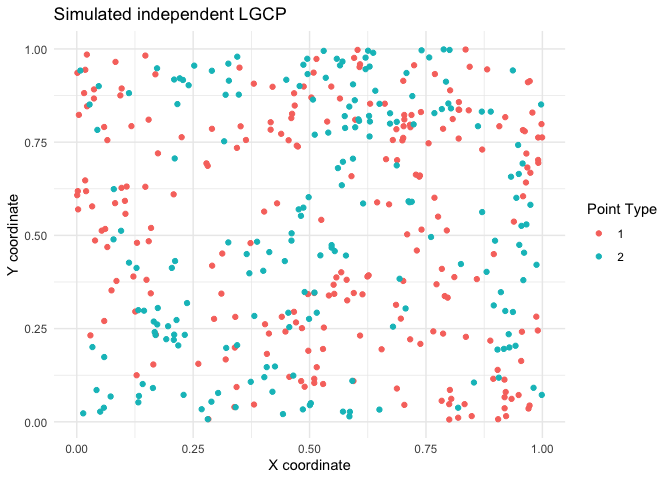
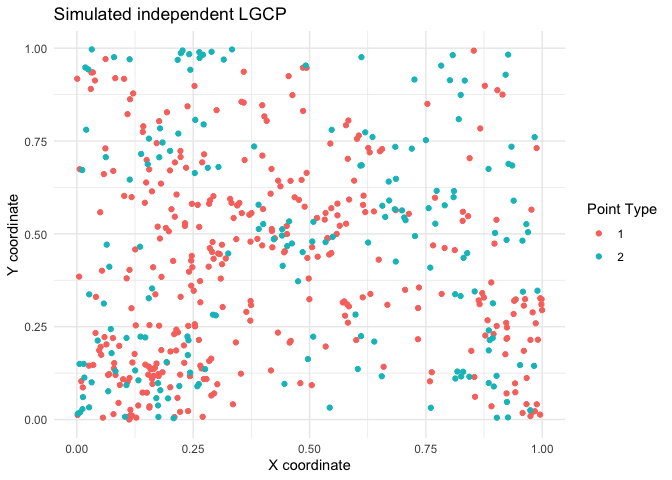
more readme edits

diff --git a/README.md b/README.md
@@ -13,17 +13,12 @@ You can install the development version of spatbiome from
 [GitHub](https://github.com/) with:
 
 ``` r
-pak::pak("asmita112358/spatbiome")
+pak::pak("asmita112358/spatbiome", dependencies = TRUE)
 #> ℹ Loading metadata database✔ Loading metadata database ... done
 #>  
 #> → Package library at '/Library/Frameworks/R.framework/Versions/4.6/Resources/library'.
-#> → Will update 1 package.
-#> → Will download 1 package with unknown size.
-#> + spatbiome 0.1.0 → 0.1.0 👷🏽♂🔧 ⬇ (GitHub: aefd986)
-#> ℹ Getting 1 pkg with unknown size
-#> ✔ Cached copy of spatbiome 0.1.0 (source) is the latest build
-#> ✔ Installed spatbiome 0.1.0 (github::asmita112358/spatbiome@aefd986) (19ms)
-#> ✔ 1 pkg + 40 deps: kept 39, upd 1 [4.2s]
+#> ℹ No downloads are needed
+#> ✔ 1 pkg + 40 deps: kept 40 [4.4s]
 library(spatbiome)
 ```
 
@@ -102,19 +97,19 @@ ggplot(plot_X, aes(x = x, y = y, color = marks)) +
 res <- ARShift(data = X, i = "1", j = "2", n_perm = 499, workers = 5, type = "hom")
 res
 #> $p
-#> [1] 0.086
+#> [1] 0.064
 #> 
 #> $K
-#>  [1] 0.0000000000 0.0001095770 0.0001095770 0.0003686007 0.0005000932
-#>  [6] 0.0007411626 0.0009384013 0.0012890478 0.0016148341 0.0020905580
-#> [11] 0.0028408995 0.0033643323 0.0041413840 0.0048351346 0.0057168404
-#> [16] 0.0065494905 0.0075813417 0.0085437241 0.0096419515 0.0107469930
-#> [21] 0.0118015558 0.0128513016 0.0140879084 0.0152223303 0.0166095903
-#> [26] 0.0182126128 0.0195767597 0.0209743239 0.0225258143 0.0243431732
-#> [31] 0.0261985763 0.0276961127 0.0297173322 0.0314113176 0.0332157374
-#> [36] 0.0354443485 0.0375964775 0.0396608913 0.0424924407 0.0445122195
-#> [41] 0.0465131321 0.0487287100 0.0510605550 0.0533563527 0.0557592833
-#> [46] 0.0582804378 0.0612650564 0.0639103498 0.0663434553 0.0689686948
+#>  [1] 0.0000000000 0.0000159261 0.0001044503 0.0002126663 0.0005474595
+#>  [6] 0.0008392205 0.0012455341 0.0017376568 0.0024152214 0.0031076744
+#> [11] 0.0039132040 0.0047076918 0.0055401279 0.0064732268 0.0076039768
+#> [16] 0.0088232471 0.0101573527 0.0114017645 0.0127600617 0.0139524128
+#> [21] 0.0155913216 0.0170355028 0.0184654593 0.0200385732 0.0218801525
+#> [26] 0.0236577130 0.0255479671 0.0272986315 0.0295592813 0.0312295560
+#> [31] 0.0336279516 0.0359726699 0.0380846839 0.0407941511 0.0431222606
+#> [36] 0.0456315162 0.0482654838 0.0510284124 0.0538327329 0.0566786660
+#> [41] 0.0597316264 0.0632406313 0.0665951906 0.0699399744 0.0727405565
+#> [46] 0.0753655078 0.0783685094 0.0812885685 0.0841073352 0.0873375809
 #> 
 #> $r
 #>  [1] 0.000000000 0.003061224 0.006122449 0.009183673 0.012244898 0.015306122
@@ -160,16 +155,16 @@ res
 #> [1] 0.002
 #> 
 #> $K
-#>  [1] 0.0000000000 0.0000621118 0.0001656315 0.0004347826 0.0007742486
-#>  [6] 0.0014763089 0.0018903876 0.0025943214 0.0036452689 0.0045163171
-#> [11] 0.0055804955 0.0069288131 0.0082921706 0.0099247913 0.0114246953
-#> [16] 0.0132108965 0.0146735830 0.0165915883 0.0185039934 0.0205321945
-#> [21] 0.0230823406 0.0250996366 0.0274502526 0.0299356302 0.0323112293
-#> [26] 0.0347864281 0.0372355356 0.0402265483 0.0430968283 0.0462454903
-#> [31] 0.0493210775 0.0519871211 0.0551998449 0.0584118817 0.0613018047
-#> [36] 0.0640923354 0.0667637549 0.0698772523 0.0728391855 0.0756903210
-#> [41] 0.0790827907 0.0824124876 0.0850701617 0.0894418388 0.0930944468
-#> [46] 0.0969539691 0.1007869496 0.1044797229 0.1089896882 0.1136519465
+#>  [1] 0.000000e+00 4.995917e-05 8.861100e-05 2.818701e-04 5.764335e-04
+#>  [6] 6.923889e-04 1.156211e-03 1.813292e-03 2.547677e-03 3.362719e-03
+#> [11] 4.019800e-03 5.136412e-03 6.061124e-03 7.003695e-03 8.233458e-03
+#> [16] 9.400235e-03 1.086138e-02 1.222129e-02 1.318738e-02 1.449857e-02
+#> [21] 1.674631e-02 1.856965e-02 2.033071e-02 2.228935e-02 2.394582e-02
+#> [26] 2.614036e-02 2.842925e-02 3.061006e-02 3.314198e-02 3.516171e-02
+#> [31] 3.738055e-02 3.941558e-02 4.212948e-02 4.446619e-02 4.678825e-02
+#> [36] 4.909844e-02 5.159548e-02 5.340454e-02 5.561690e-02 5.811597e-02
+#> [41] 6.096367e-02 6.370549e-02 6.640453e-02 7.008582e-02 7.328965e-02
+#> [46] 7.616112e-02 7.928366e-02 8.234104e-02 8.571477e-02 8.833558e-02
 #> 
 #> $r
 #>  [1] 0.000000000 0.003061224 0.006122449 0.009183673 0.012244898 0.015306122
